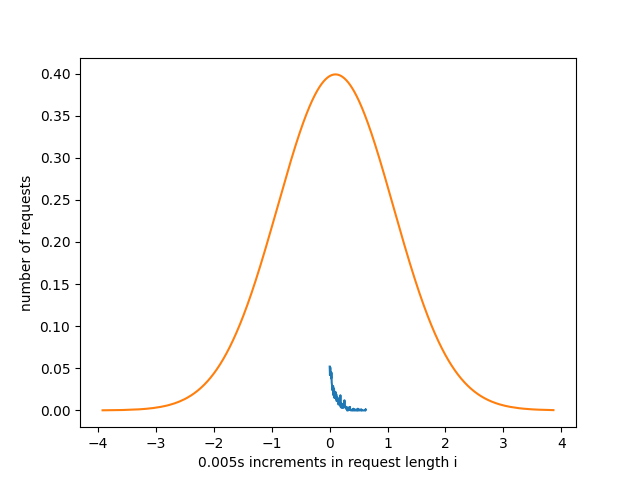
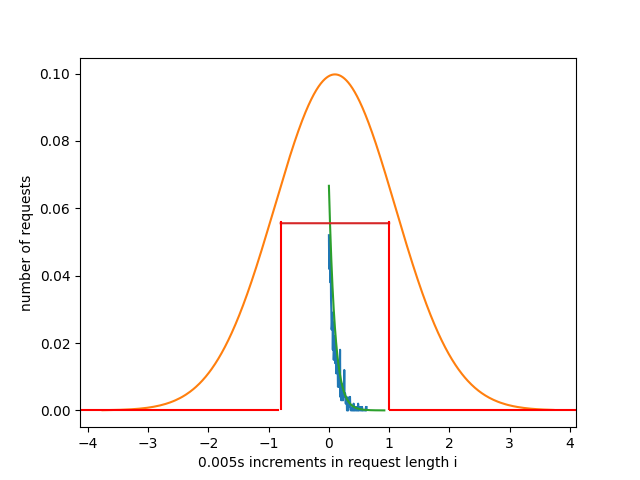
did dirty work for eval 2. need to type up results. going back to eval 1 to fix

diff --git a/hw2/src/eval1.py b/hw2/src/eval1.py
@@ -6,7 +6,6 @@ data=pd.read_csv("mtout.csv",engine="python",sep="[,:]");
 print(data.iloc[1,3]-data.iloc[0,3])
 #sort reqlens into time brackets, make bar graph. goodnight.
 
-#good evening. lets get to work
 
 index=max(data['length'])
 print(index//0.005)
@@ -17,33 +16,46 @@ print(len(values))
 for i in range(len(data['length'])):
     values[int(data.iloc[i,2]//0.005)]+=1/1000
 plt.plot(bins,values)
+
+#normal values
 normvals=np.random.normal(1/10,1,size=10000)
 normvals.sort()
 
 
 norm=lambda x: (1/(1*math.sqrt(2*np.pi))*math.exp(-1/2*((x-0.1)/1)**2))
 x=[norm(val) for val in normvals]
-#x=[val/1000 for val in x]
+x=[val/4 for val in x]
 
 plt.plot(normvals,x)
 
 #exponential values
 
-expvals=np.random.exponential(10,size=10000)
+expvals=np.random.exponential(1/10,size=10000)
 expvals.sort()
 
-norm=lambda x: 10*math.exp(-10*x)
+norm=lambda x: 1/10*math.exp(-10*x)
 x=[norm(val) for val in expvals]
 
 
-#x=[val/1000 for val in x]
-#plt.plot(expvals,x)
-#print(sum(x))
-#plt.plot([i for i in range(10000)],[np.random.normal(1/10,1) for i in range(10000)])
-#plt.plot([i for i in range(10000)],[np.random.exponential(1/10) for i in range(10000)])
+x=[val/1.5 for val in x]
+plt.plot(expvals,x)
 
-         
-               
+#uniform values
+
+
+univals=np.random.uniform(-8/10,1,size=10000)
+univals.sort()
+
+uni=lambda x,y: 1/(y-x)
+x=[uni(-0.8,1) for val in univals]
+
+
+x=[val/10 for val in x]
+plt.plot(univals,x)
+plt.axvline(-0.8,ymin=0.05,ymax=x[0]/0.1,color="r")
+plt.axvline(1,ymin=0.05,ymax=x[0]/0.1,color="r")
+plt.axhline(y=0,xmax=3.2/8,color="r")
+plt.axhline(y=0,xmin=5/8,color="r")
 
 # Set the heights of the bars to the normalized values
 #plt.yticks([i for i in plt.yticks()[0]], [f'{i/1000}' for i in plt.yticks()[0]])

diff --git a/hw2/src/eval2b.py b/hw2/src/eval2b.py
@@ -1,0 +1,26 @@
+import matplotlib.pyplot as plt
+import pandas as pd
+import math
+import sys
+import numpy as np
+
+restimes=[]
+qsizes=[]
+utils=[]
+for i in range(1,16):
+    data=open(f"pyout/pydat{i}.txt","r")
+    qsizes.append(data.readline()[1:5])
+    restimes.append(data.readline()[1:5])
+    utils.append(data.readline()[1:5])
+
+print(qsizes)
+print(restimes)
+fig, ax1 = plt.subplots()
+ax2=ax1.twinx()
+ax1.plot(utils,restimes,"b")
+ax2.plot(utils,qsizes,"g")
+
+ax1.set_xlabel("server util",color="r")
+ax1.set_ylabel('avg response time',color="b")
+ax2.set_ylabel('avg queue sizes',color="g")
+plt.savefig("2b.png")
